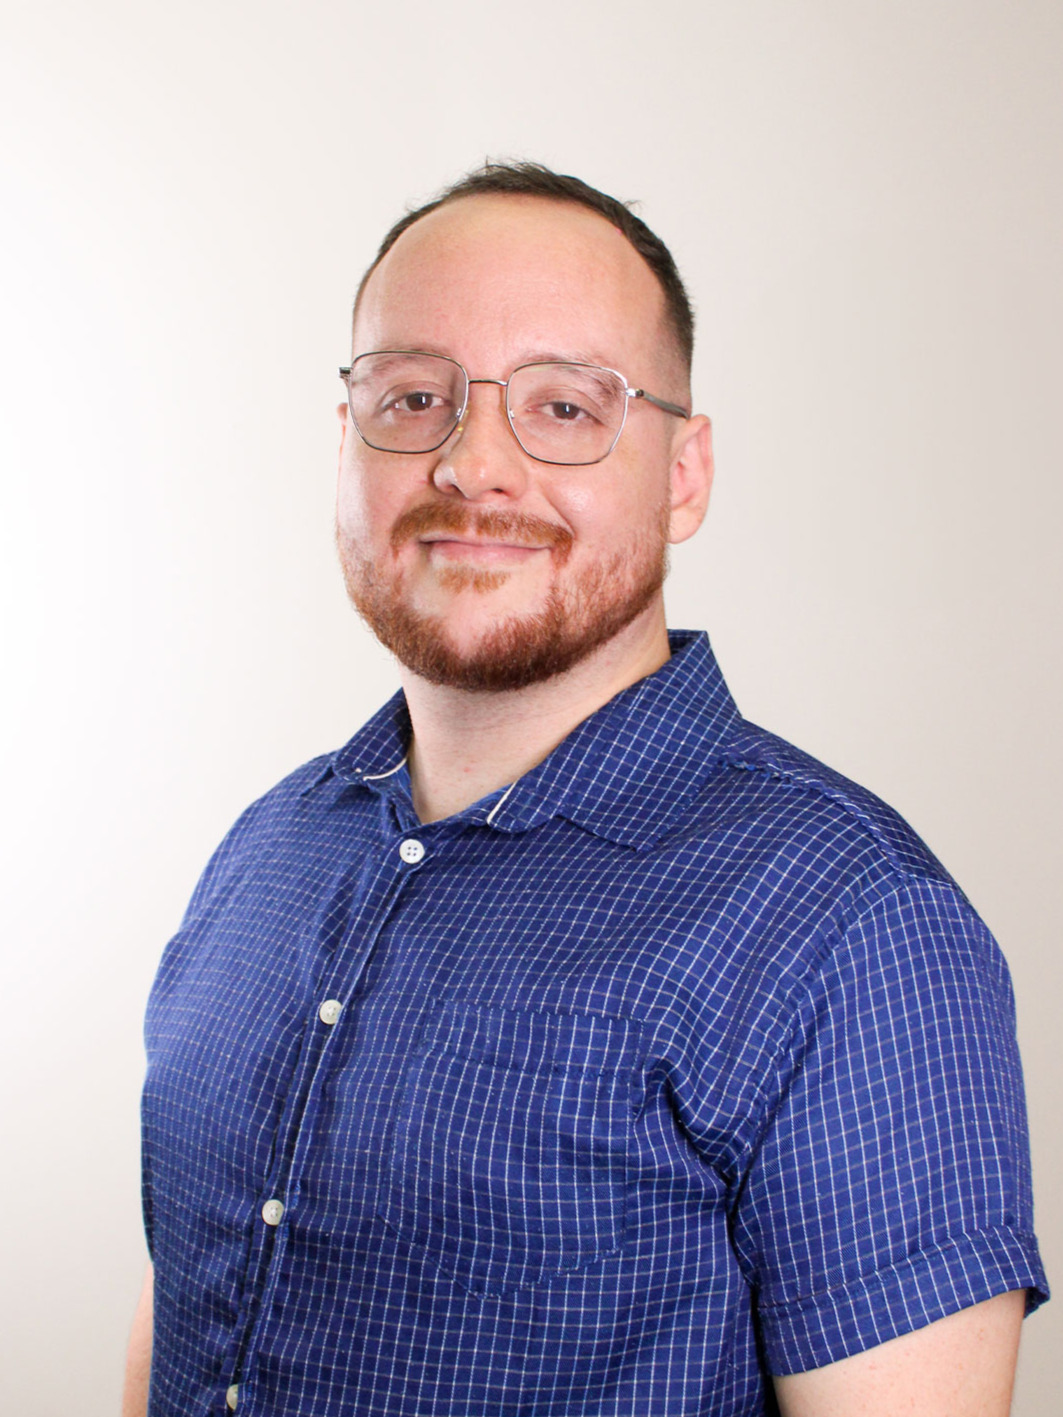
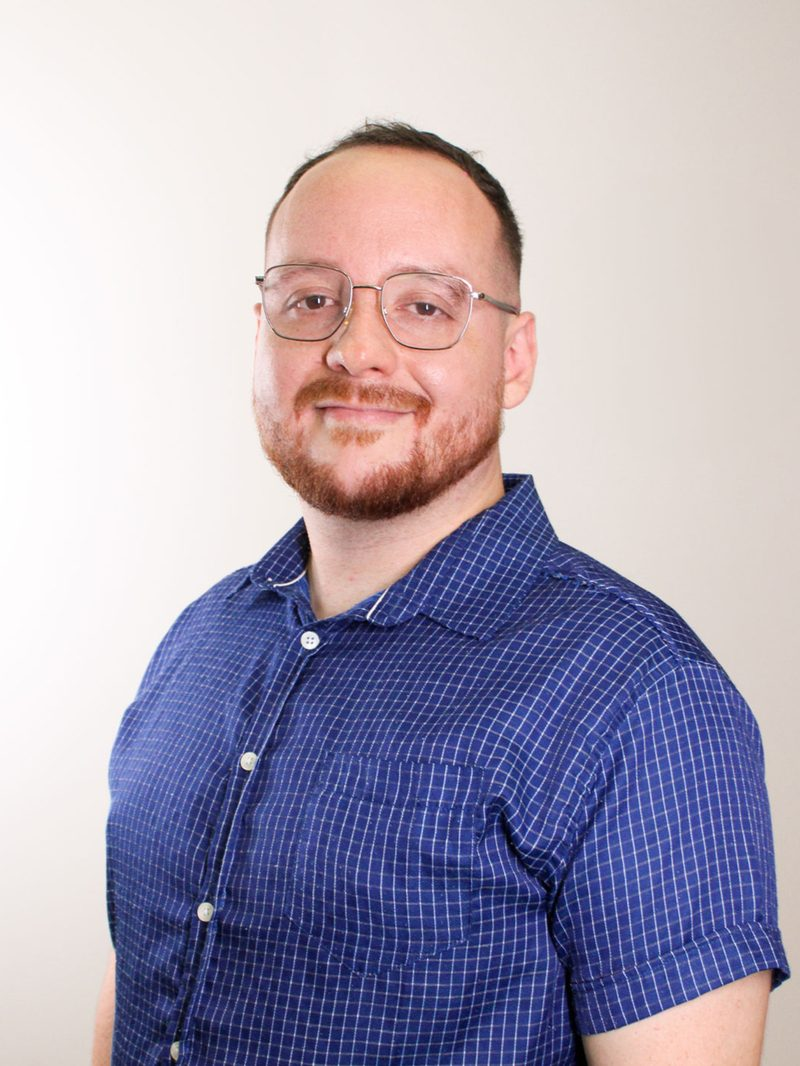
perf(hero): serve profile photo as resized WebP
The photo is shown at most 384px wide but was a 408 KB JPEG at
1063px. Serve 400px and 800px WebP versions (29 KB and 82 KB) through
<picture> with srcset, and keep an 800px JPEG (124 KB) as fallback.
The photo is also fetched with high priority, since it is the largest
image above the fold.

diff --git a/src/components/Hero.jsx b/src/components/Hero.jsx
@@ -31,13 +31,21 @@ export default function Hero() {
         </div>
       </div>
       <div className="flex w-full justify-center md:flex-[2_1_0%]">
-        <img
-          src="/foto.jpg"
-          alt="Foto de Vítor Barra"
-          width="1063"
-          height="1417"
-          className="aspect-3/4 w-full max-w-sm rounded-2xl border border-border bg-surface object-cover"
-        />
+        <picture className="w-full max-w-sm">
+          <source
+            type="image/webp"
+            srcSet="/foto-400.webp 400w, /foto-800.webp 800w"
+            sizes="(min-width: 416px) 384px, calc(100vw - 32px)"
+          />
+          <img
+            src="/foto.jpg"
+            alt="Foto de Vítor Barra"
+            width="800"
+            height="1066"
+            fetchPriority="high"
+            className="aspect-3/4 w-full rounded-2xl border border-border bg-surface object-cover"
+          />
+        </picture>
       </div>
     </section>
   );
